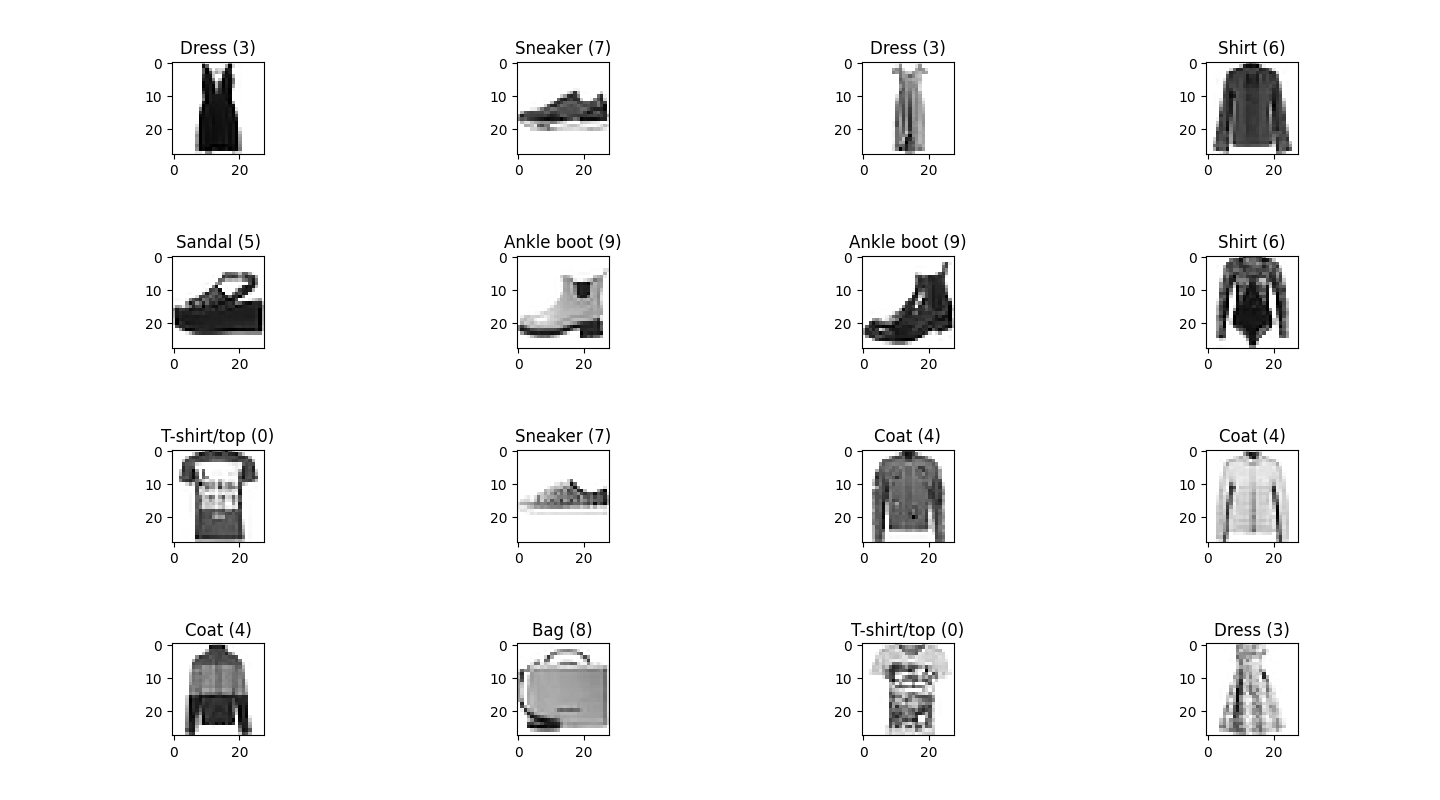
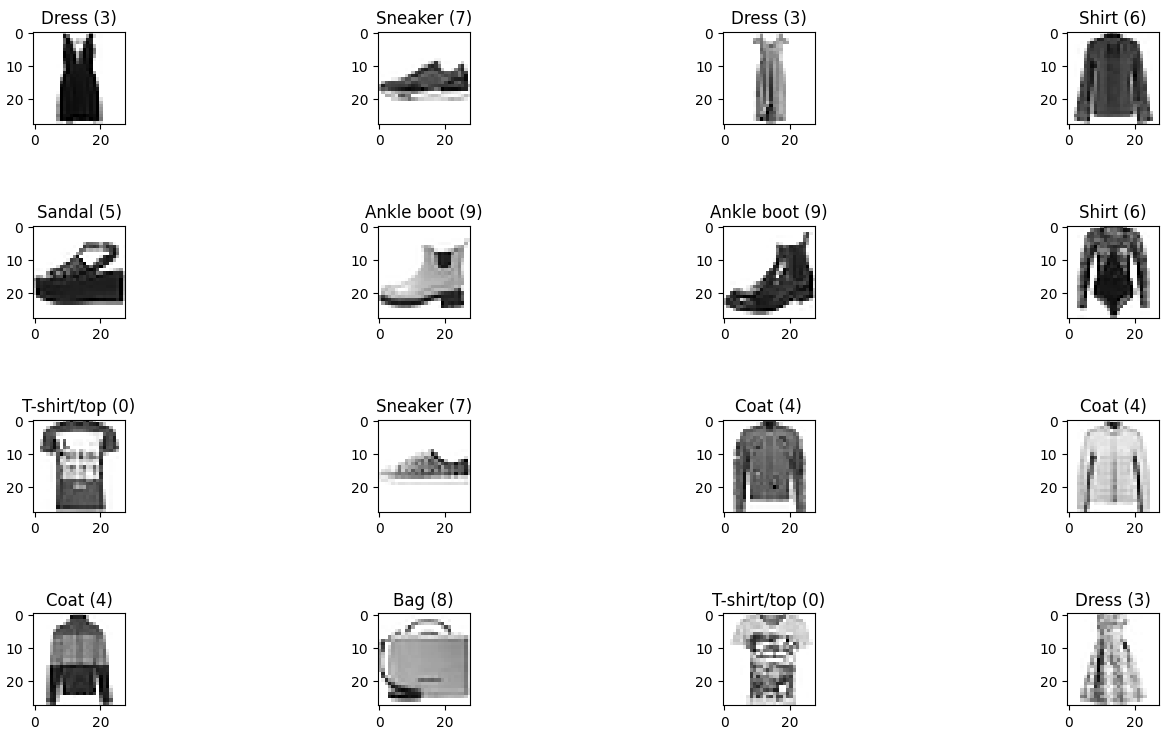
Crop exercise5 images

diff --git a/exercise5.py b/exercise5.py
@@ -74,7 +74,7 @@ def plot_16(X_train, y_train, labels, size=16):
 def main():
     """Main function to run when the script is run."""
     data = np.array(pd.read_csv("A3_data/fashion-mnist_train.csv"))
-    np.random.seed(7)
+    # np.random.seed(7)
     np.random.shuffle(data)
     X_train, y_train = (data[:, 1:]/255.0).reshape(-1, 28, 28), tf.keras.utils.to_categorical(data[:, 0])
     data = np.array(pd.read_csv("A3_data/fashion-mnist_test.csv"))
